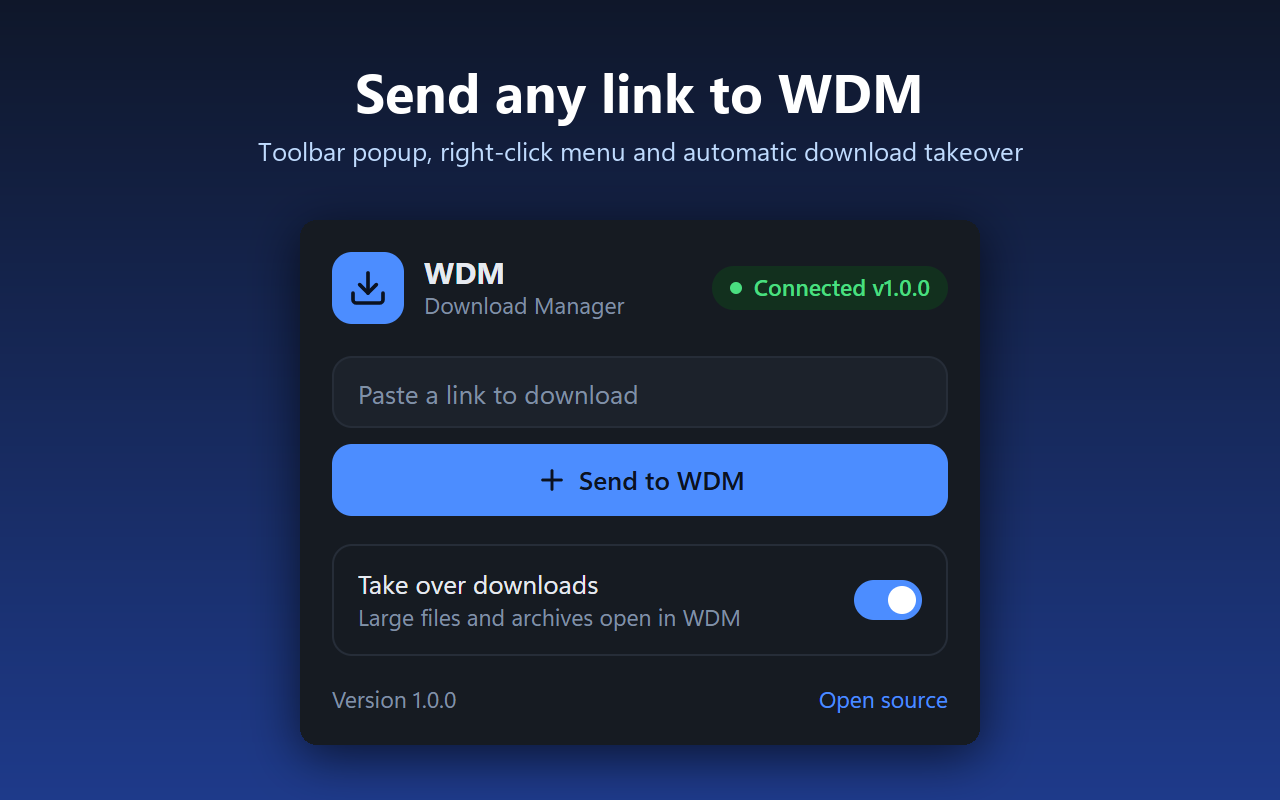
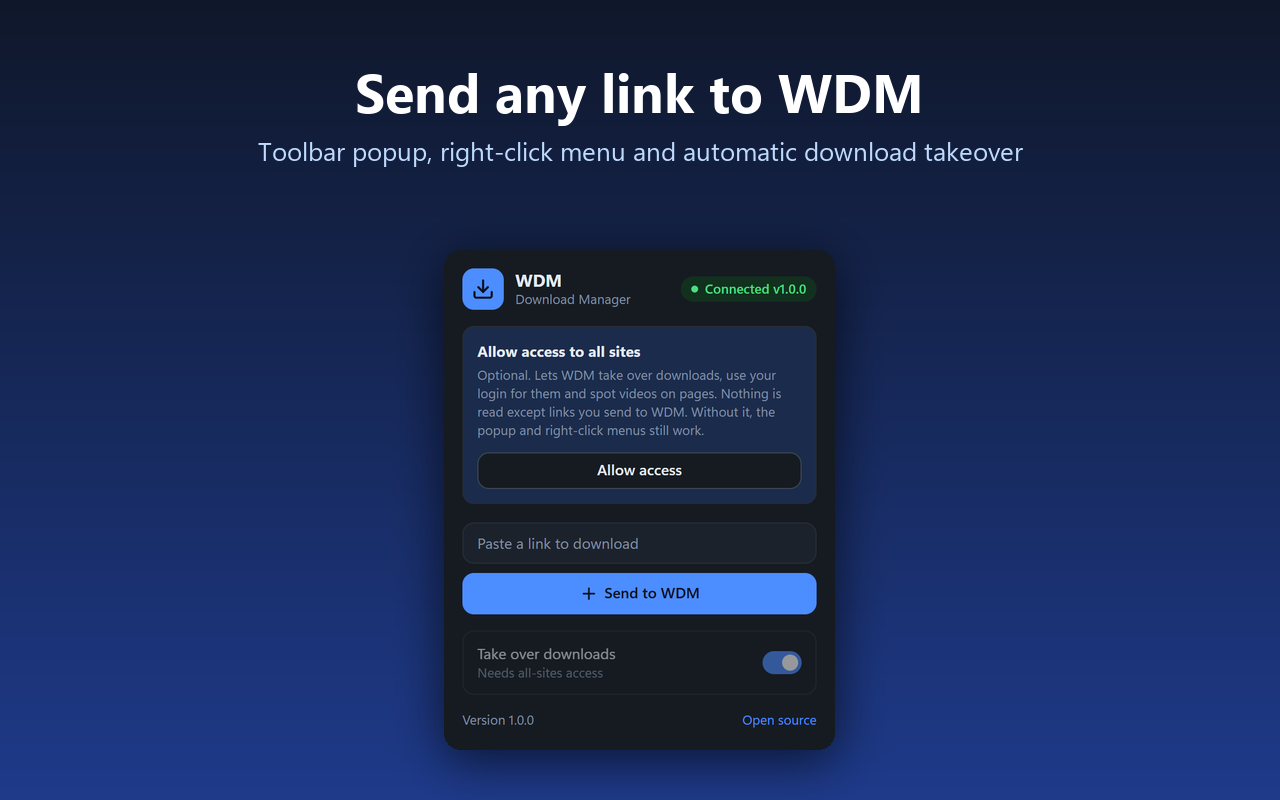
feat(extension): optional site access instead of broad host permissions
- manifest: optional_host_permissions, activeTab + scripting; no static content script
- background: link collection via scripting (activeTab), takeover and media button only with granted access
- popup: access card, welcome tab on install
- listing/privacy text and store screenshot updated

Changed region(s): [[0.2188, 0.25, 0.7812, 0.9688]]

diff --git a/extension/background.js b/extension/background.js
@@ -9,6 +9,14 @@ const DEFAULT_EXTENSIONS = new Set((
 const MIN_UNKNOWN_TYPE_BYTES = 1024 * 1024;
 const MEDIA_REGEX = /\.(mp4|webm|mkv|flv|mp3|aac)(\?.*)?$/i;
 
+// Site access is optional. Without it the extension works from explicit clicks only (activeTab): the toolbar
+// popup, the right-click menus. With it WDM can also take over downloads, use the visitor's login cookies for
+// them and spot media on pages. The user grants it from the popup.
+const ALL_SITES = { origins: ["<all_urls>"] };
+const MEDIA_SCRIPT_ID = "wdm-media";
+
+const hasAllSites = () => chrome.permissions.contains(ALL_SITES);
+
 // ---- settings ---------------------------------------------------------------------------------
 
 async function isTakeoverEnabled() {
@@ -36,6 +44,7 @@ function sendToHost(message) {
   });
 }
 
+/** Cookies are only readable for sites the extension has access to; anything else is sent without. */
 async function cookieHeaderFor(url) {
   try {
     const cookies = await chrome.cookies.getAll({ url });
@@ -71,19 +80,34 @@ async function sendBatchToWdm(urls, referer) {
 
 // ---- context menus ----------------------------------------------------------------------------
 
-chrome.runtime.onInstalled.addListener(() => {
+chrome.runtime.onInstalled.addListener(({ reason }) => {
   chrome.contextMenus.create({
     id: "wdm_download_link",
     title: "Download with WDM",
     contexts: ["link", "video", "audio"]
   });
-
   chrome.contextMenus.create({
     id: "wdm_download_page",
     title: "Download all links with WDM",
     contexts: ["page"]
   });
+
+  syncSiteAccess();
+
+  // First run: show the popup in a tab so the user can decide about site access
+  if (reason === "install") chrome.tabs.create({ url: chrome.runtime.getURL("popup.html?welcome=1") });
 });
+
+chrome.runtime.onStartup.addListener(syncSiteAccess);
+
+/** Runs inside the page (activeTab grants access after the click); returns every distinct http(s) link. */
+function collectPageLinks() {
+  const links = new Set();
+  document.querySelectorAll("a[href]").forEach((a) => {
+    if (/^https?:/i.test(a.href)) links.add(a.href);
+  });
+  return Array.from(links);
+}
 
 chrome.contextMenus.onClicked.addListener(async (info, tab) => {
   if (info.menuItemId === "wdm_download_link") {
@@ -91,7 +115,7 @@ chrome.contextMenus.onClicked.addListener(async (info, tab) => {
     if (targetUrl) await sendDownloadToWdm(targetUrl, tab?.url);
   } else if (info.menuItemId === "wdm_download_page" && tab?.id != null) {
     try {
-      const links = await chrome.tabs.sendMessage(tab.id, { type: "WDM_COLLECT_LINKS" });
+      const [{ result: links }] = await chrome.scripting.executeScript({ target: { tabId: tab.id }, func: collectPageLinks });
       await sendBatchToWdm(links || [], tab.url);
     } catch (err) {
       console.warn("[WDM] Could not collect page links:", err);
@@ -136,7 +160,9 @@ function shouldTakeOver(item) {
 }
 
 chrome.downloads.onCreated.addListener(async (item) => {
-  if (!(await isTakeoverEnabled()) || !shouldTakeOver(item)) return;
+  // Taking over needs the visitor's cookies for the download's site, otherwise logged-in downloads would fail in WDM.
+  // Without site access the browser simply keeps its download.
+  if (!(await isTakeoverEnabled()) || !shouldTakeOver(item) || !(await hasAllSites())) return;
 
   try { await chrome.downloads.pause(item.id); } catch { /* already finished or not pausable */ }
 
@@ -153,15 +179,39 @@ chrome.downloads.onCreated.addListener(async (item) => {
   } catch { /* download vanished while we were deciding */ }
 });
 
-// ---- media sniffing ---------------------------------------------------------------------------
+// ---- media sniffing (needs site access) -------------------------------------------------------
 
-chrome.webRequest.onHeadersReceived.addListener(
-  (details) => {
-    if (details.tabId < 0) return;
-    if (details.type === "media" || MEDIA_REGEX.test(details.url)) {
-      chrome.tabs.sendMessage(details.tabId, { type: "WDM_MEDIA_FOUND", url: details.url }).catch(() => {});
-    }
-  },
-  { urls: ["<all_urls>"] },
-  ["responseHeaders"]
-);
+function onMediaHeaders(details) {
+  if (details.tabId < 0) return;
+  if (details.type === "media" || MEDIA_REGEX.test(details.url)) {
+    chrome.tabs.sendMessage(details.tabId, { type: "WDM_MEDIA_FOUND", url: details.url }).catch(() => {});
+  }
+}
+
+// Registered at start-up so the worker is woken for it; Chrome delivers events only for sites the user granted.
+try {
+  chrome.webRequest.onHeadersReceived.addListener(onMediaHeaders, { urls: ["<all_urls>"] }, ["responseHeaders"]);
+} catch (err) {
+  console.warn("[WDM] Media detection unavailable until site access is granted:", err.message);
+}
+
+/** The page button is a content script, only registered while the user has granted site access. */
+async function syncSiteAccess() {
+  const granted = await hasAllSites();
+  const registered = (await chrome.scripting.getRegisteredContentScripts({ ids: [MEDIA_SCRIPT_ID] })).length > 0;
+
+  if (granted && !registered) {
+    await chrome.scripting.registerContentScripts([{
+      id: MEDIA_SCRIPT_ID,
+      matches: ["<all_urls>"],
+      js: ["content.js"],
+      runAt: "document_end",
+      persistAcrossSessions: true
+    }]);
+  } else if (!granted && registered) {
+    await chrome.scripting.unregisterContentScripts({ ids: [MEDIA_SCRIPT_ID] });
+  }
+}
+
+chrome.permissions.onAdded.addListener(syncSiteAccess);
+chrome.permissions.onRemoved.addListener(syncSiteAccess);

diff --git a/extension/popup.js b/extension/popup.js
@@ -4,7 +4,17 @@ const takeoverToggle = document.getElementById("takeoverToggle");
 const sendForm = document.getElementById("sendForm");
 const urlInput = document.getElementById("urlInput");
 
+const accessCard = document.getElementById("access");
+const accessTitle = document.getElementById("accessTitle");
+const accessText = document.getElementById("accessText");
+const accessBtn = document.getElementById("accessBtn");
+const takeoverHint = document.getElementById("takeoverHint");
+const takeoverRow = takeoverToggle.closest(".switch");
+
+const ALL_SITES = { origins: ["<all_urls>"] };
+
 document.getElementById("version").textContent = chrome.runtime.getManifest().version;
+if (new URLSearchParams(location.search).has("welcome")) document.body.classList.add("welcome");
 
 /** @param {"pending"|"ok"|"warn"|"error"} state */
 function setStatus(text, state) {
@@ -43,6 +53,30 @@ async function sendUrl(event) {
   }
 }
 
+/** Site access is optional: the card either asks for it or lets the user turn it off again. */
+async function renderAccess() {
+  const granted = await chrome.permissions.contains(ALL_SITES);
+
+  accessCard.hidden = false;
+  accessTitle.textContent = granted ? "All-sites access is on" : "Allow access to all sites";
+  accessText.textContent = granted
+    ? "WDM can take over downloads, use your login for them and spot videos on pages."
+    : "Optional. Lets WDM take over downloads, use your login for them and spot videos on pages. " +
+      "Nothing is read except links you send to WDM. Without it, the popup and right-click menus still work.";
+  accessBtn.textContent = granted ? "Turn off" : "Allow access";
+
+  takeoverToggle.disabled = !granted;
+  takeoverRow.classList.toggle("disabled", !granted);
+  takeoverHint.textContent = granted ? "Large files and archives open in WDM" : "Needs all-sites access";
+}
+
+accessBtn.addEventListener("click", async () => {
+  // permissions.request must run straight from the click
+  if (await chrome.permissions.contains(ALL_SITES)) await chrome.permissions.remove(ALL_SITES);
+  else await chrome.permissions.request(ALL_SITES);
+  renderAccess();
+});
+
 chrome.storage.local.get("takeover").then(({ takeover = true }) => {
   takeoverToggle.checked = takeover;
 });
@@ -51,3 +85,4 @@ takeoverToggle.addEventListener("change", () => chrome.storage.local.set({ takeo
 sendForm.addEventListener("submit", sendUrl);
 
 checkHost();
+renderAccess();

diff --git a/extension/content.js b/extension/content.js
@@ -1,5 +1,5 @@
-// WDM content script: collects page links on request and offers a "Download with WDM" button
-// on pages that play media. The button lives in a shadow root so page CSS cannot restyle it.
+// WDM content script (registered only while the user has granted site access): offers a "Download with WDM"
+// button on pages that play media. The button lives in a shadow root so page CSS cannot restyle it.
 (() => {
   const SCAN_INTERVAL_MS = 3000;
   const SENT_VISIBLE_MS = 2000;
@@ -45,17 +45,8 @@
 
   // ---- messages from the background worker ------------------------------------------------------
 
-  chrome.runtime.onMessage.addListener((msg, _sender, sendResponse) => {
-    if (msg.type === "WDM_MEDIA_FOUND" && msg.url) {
-      addMedia(msg.url);
-    } else if (msg.type === "WDM_COLLECT_LINKS") {
-      // Every distinct http(s) link on the page ("Download all links with WDM")
-      const links = new Set();
-      document.querySelectorAll("a[href]").forEach((a) => {
-        if (/^https?:/i.test(a.href)) links.add(a.href);
-      });
-      sendResponse(Array.from(links));
-    }
+  chrome.runtime.onMessage.addListener((msg) => {
+    if (msg.type === "WDM_MEDIA_FOUND" && msg.url) addMedia(msg.url);
   });
 
   // ---- media discovery --------------------------------------------------------------------------

diff --git a/extension/popup.html b/extension/popup.html
@@ -19,6 +19,13 @@
     </span>
   </header>
 
+  <section id="access" class="access" hidden>
+    <strong id="accessTitle">Allow access to all sites</strong>
+    <p id="accessText">Optional. Lets WDM take over downloads, use your login for them and spot videos on pages.
+      Nothing is read except links you send to WDM. Without it, the popup and right-click menus still work.</p>
+    <button id="accessBtn" class="btn ghost" type="button">Allow access</button>
+  </section>
+
   <form id="sendForm" class="send" novalidate>
     <input id="urlInput" class="field" type="text" inputmode="url" autocomplete="off" spellcheck="false"
            placeholder="Paste a link to download" aria-label="Link to download">
@@ -31,7 +38,7 @@
   </form>
 
   <label class="switch">
-    <span class="label">Take over downloads<small>Large files and archives open in WDM</small></span>
+    <span class="label">Take over downloads<small id="takeoverHint">Large files and archives open in WDM</small></span>
     <input type="checkbox" id="takeoverToggle" checked>
     <span class="track" aria-hidden="true"></span>
   </label>

diff --git a/extension/popup.css b/extension/popup.css
@@ -100,6 +100,31 @@ body {
 .pill[data-state="error"] { background: var(--danger-soft); color: var(--danger); }
 .pill[data-state="warn"] { background: var(--warning-soft); color: var(--warning); }
 
+/* ---- site access card --------------------------------------------------------------------- */
+.access {
+  margin-top: 14px;
+  padding: 12px;
+  border: 1px solid var(--border);
+  border-radius: 10px;
+  background: var(--accent-soft);
+}
+
+.access[hidden] { display: none; }
+.access strong { display: block; font-size: 13px; }
+.access p { margin: 4px 0 0; font-size: 11.5px; color: var(--text-muted); }
+body.welcome .access { border-color: var(--accent); }
+
+.btn.ghost {
+  height: 32px;
+  margin-top: 10px;
+  border: 1px solid var(--border-strong);
+  background: var(--bg);
+  color: var(--text);
+}
+
+.btn.ghost:hover { background: var(--surface-alt); }
+.switch.disabled { opacity: 0.55; cursor: not-allowed; }
+
 /* ---- send form ---------------------------------------------------------------------------- */
 .send { margin-top: 16px; }
 

diff --git a/store/chrome/listing.md b/store/chrome/listing.md
@@ -22,11 +22,10 @@ WDM splits a file across up to 32 connections, resumes interrupted downloads, an
 REQUIRES THE WDM DESKTOP APP (Windows 10/11). Install it first from https://github.com/md-anamul-hasan/wdm/releases/latest - the extension does nothing on its own.
 
 WHAT IT DOES
-• Takes over large or archive-type downloads and hands them to WDM. If WDM is not running or does not confirm, the browser download continues untouched - nothing is ever lost.
 • Right-click any link, video or audio and choose "Download with WDM".
 • Right-click a page and choose "Download all links with WDM" to queue every link on it.
-• Shows a "download this media" button on pages that stream video or audio.
-• Toolbar popup: paste a URL and send it to WDM, or switch download takeover on and off.
+• Toolbar popup: paste a URL and send it to WDM.
+• Optional "all sites" access (you turn it on in the popup, and off again any time): WDM then takes over large or archive-type downloads using your logged-in session, and shows a "download this media" button on pages that stream video or audio. If WDM is not running or does not confirm, the browser download continues untouched - nothing is ever lost.
 
 PRIVACY
 • No analytics, no tracking, no accounts, no remote code.
@@ -60,13 +59,14 @@ Privacy policy: https://github.com/md-anamul-hasan/wdm/blob/master/docs/PRIVACY.
 | Permission | Justification |
 |---|---|
 | `nativeMessaging` | The extension's only output channel. It sends the download URL to the locally installed WDM app (host `com.wdm.download`). Without it the extension cannot do its single purpose. |
-| `downloads` | To detect a download the browser has just started, pause it, offer it to WDM, and cancel the browser's copy only after WDM confirms (or resume it if WDM is unreachable). |
+| `downloads` | To detect a download the browser has just started, pause it, offer it to WDM, and cancel the browser's copy only after WDM confirms (or resume it if WDM is unreachable). Only acts when the user has turned on all-sites access. |
 | `contextMenus` | Adds the "Download with WDM" and "Download all links with WDM" right-click entries. |
-| `cookies` | To read the cookies of the download URL's site and pass them to WDM, so downloads that need the user's logged-in session work. Used only for the URL being sent, and only sent to the WDM app on the same computer. |
-| `webRequest` | Read-only observation of response headers to notice media streams on a page and offer the "download this media" button. No request is blocked or modified. |
+| `cookies` | To read the cookies of the download URL's site and pass them to WDM, so downloads that need the user's logged-in session work. Used only for the URL being sent, and only sent to the WDM app on the same computer. Limited to the sites the extension has access to. |
+| `webRequest` | Read-only observation of response headers to notice media streams on a page and offer the "download this media" button. No request is blocked or modified. Receives events only for sites the user granted. |
 | `storage` | Remembers one setting: whether download takeover is on. |
-| Host permission `<all_urls>` | Downloads and media can come from any website, so the extension must be able to read cookies for, observe media requests of, and offer the download button on any site the user visits. It contacts none of them itself. |
-| Content script on all pages | Adds the floating "download this media" button and collects page links for "Download all links". It does not read or send page content anywhere else. |
+| `activeTab` | Lets the right-click and toolbar actions work on the current page after the user's click (reading that page's links for "Download all links"), without any standing site access. |
+| `scripting` | Reads the links of the current page when the user picks "Download all links with WDM", and registers the media button's script only if the user has granted all-sites access. |
+| Optional host permission `<all_urls>` | NOT requested at install. The user can grant it from the popup. It is needed only for the opt-in features: taking over browser downloads (the extension must read the cookies for whichever site a download comes from, and see the download's site), and the "download this media" button on any site. It contacts none of those sites itself, and the user can turn it off again in the popup. |
 
 **Remote code**: No. All JavaScript is in the package.
 
@@ -88,7 +88,8 @@ The extension is the browser half of the free Windows app WDM; it needs the app 
 1. Install WDM from https://github.com/md-anamul-hasan/wdm/releases/latest (WDM-Setup-1.0.0.exe, Windows 10/11). Keep "Enable browser integration" ticked.
 2. Open Chrome, install this extension, open any page with a file link (for example https://github.com/md-anamul-hasan/wdm/releases/latest) and right-click the installer link > "Download with WDM". The WDM window opens and downloads the file.
 3. Or click the toolbar icon, paste a URL and press "Send to WDM".
-4. Without WDM installed the popup shows it cannot reach the app and browser downloads proceed normally.
+4. Optional features: in the popup press "Allow access" (all-sites access, a standard permission prompt). Then downloads of large or archive files started in the browser are taken over by WDM, and pages that play video show a "Download with WDM" button. "Turn off" in the popup removes the access again.
+5. Without WDM installed the popup shows it cannot reach the app and browser downloads proceed normally.
 
 No account or login is needed.
 ```

diff --git a/docs/PRIVACY.md b/docs/PRIVACY.md
@@ -2,13 +2,17 @@
 
 _Last updated: 2026-10-21_
 
-WDM (Windows Download Manager) and its browser extension, "WDM Integration Module", are free, open-source software maintained by Md Anamul Hasan. This policy covers both.
+WDM (Windows Download Manager) and its browser extension, "WDM Download Manager Integration", are free, open-source software maintained by Md Anamul Hasan. This policy covers both.
 
 ## Summary
 
 - WDM collects **no personal data** and sends **no telemetry**. There are no analytics, no accounts, no advertising and no update check.
 - Nothing the extension reads leaves your computer, except to the websites you are downloading from, and only as described below.
 - There is no server operated by the WDM project that receives your data.
+
+## Site access is optional
+
+When installed, the extension has no standing access to websites. The toolbar popup and the right-click menus work on the page you click on. A separate, optional "all sites" permission can be granted from the popup and removed again at any time. Only with it does the extension take over browser downloads, read the cookies of a download's site, and watch for media on pages. Everything below describes what happens with that data.
 
 ## What the extension does with browser data
 

diff --git a/CHANGELOG.md b/CHANGELOG.md
@@ -8,6 +8,7 @@ All notable changes to WDM. Versioning follows [Semantic Versioning](https://sem
 - Chrome Web Store packaging (`scripts/package-extension.ps1`), listing assets and privacy policy; `Wdm.NativeHost --register --extension-id <id>` authorizes the store-assigned extension ID.
 
 ### Changed
+- Extension: no standing host access. Site access (`<all_urls>`) is now optional and granted from the popup; the popup and right-click menus work from `activeTab` alone. Download takeover, login cookies for it and the page media button need the optional access. This avoids the Chrome Web Store broad-host-permissions review.
 - Extension popup and the on-page download button now use the desktop app's palette, light and dark (system theme); the page button runs in a shadow root and can be dismissed.
 - A failed download now shows its reason in the details panel instead of only in a status tooltip.
 
